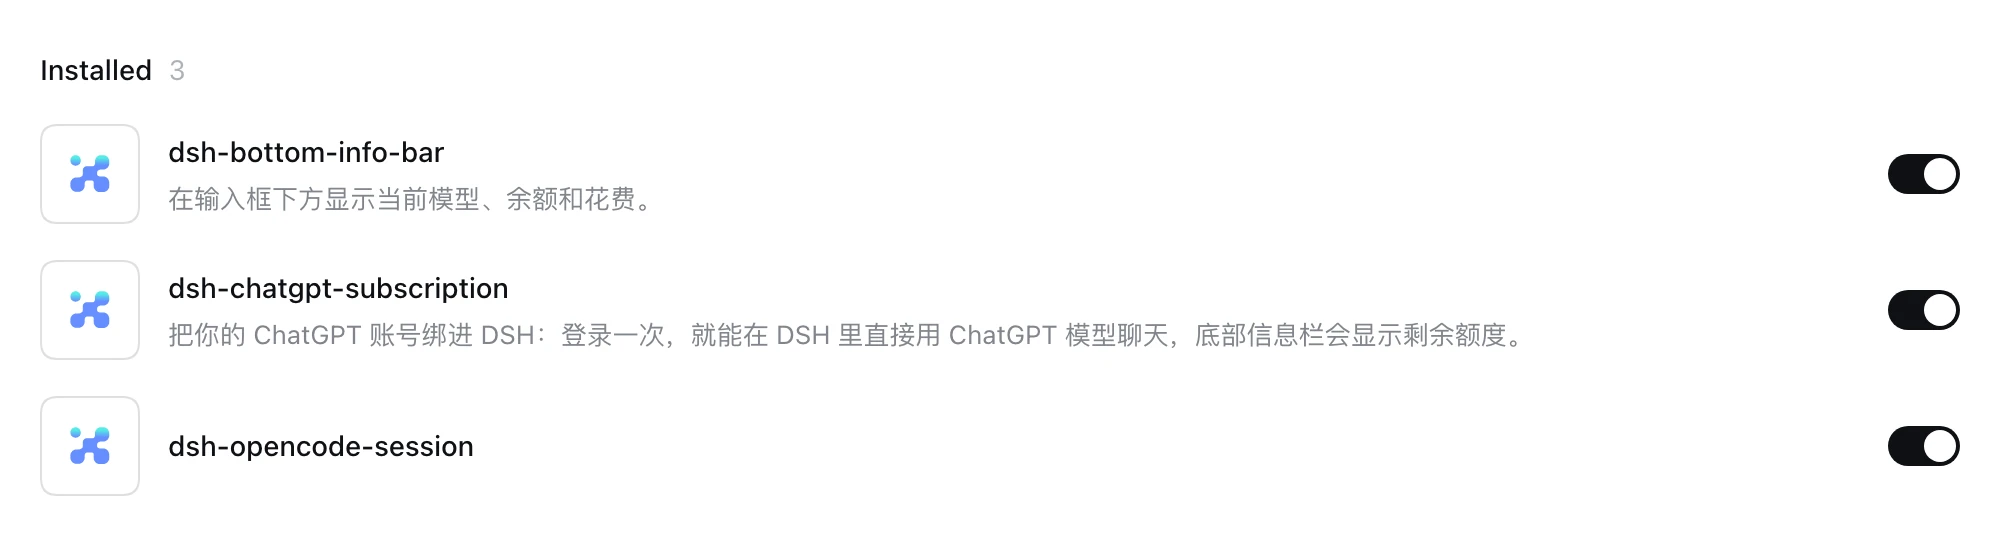
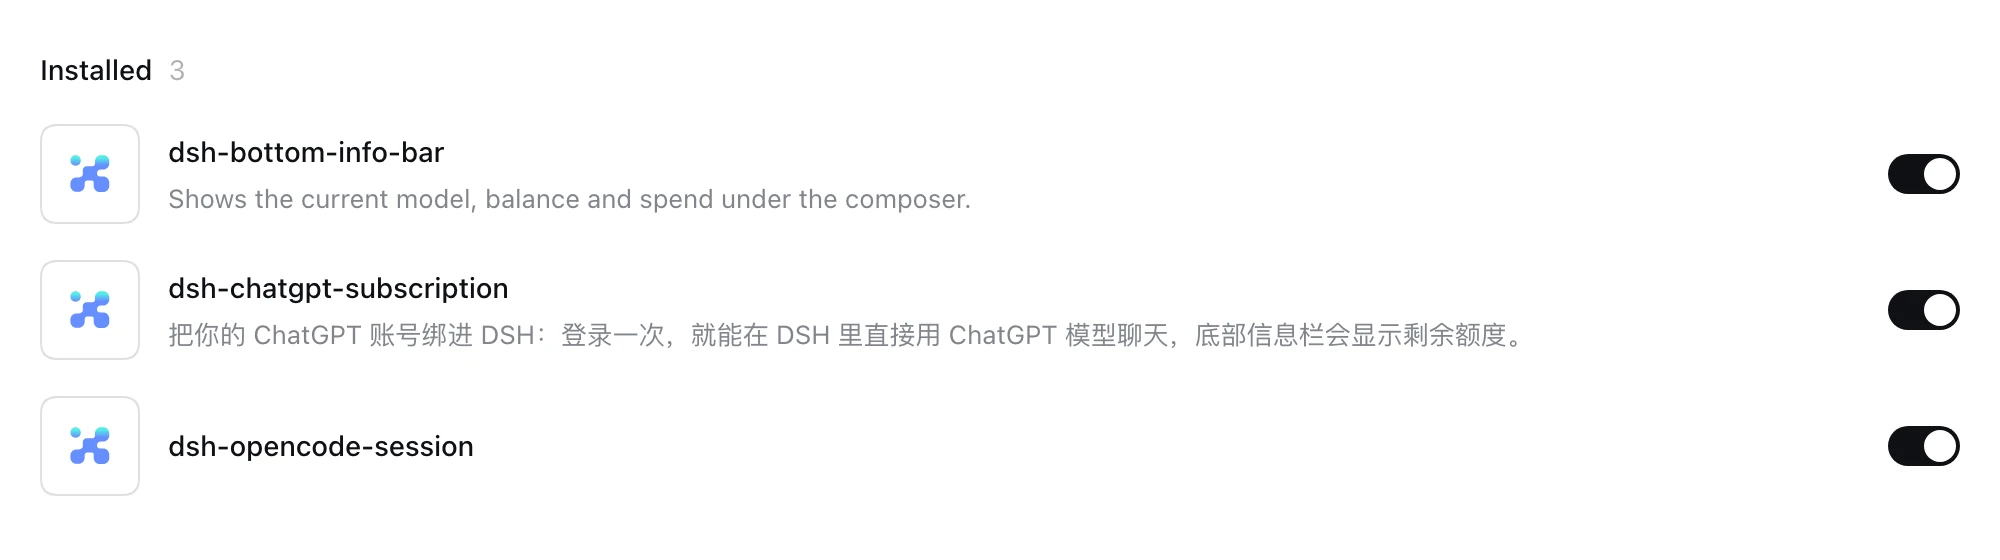
fix: let the plugin name and description follow the host language (#124)
* fix: let the plugin name and description follow the host language

The description shown under the plugin title and in the installed-plugins list
came straight from package.json, so it stayed Chinese no matter which language
DSH was running in.

DSH already supports localizing that metadata per package: it discovers
locale/en.json next to the manifest and merges every locale/*.json into the
title/description it hands to the client. This ships that dictionary pair, with
package.json keeping the English one-liner as the npm-facing fallback.

Three contracts have to hold or the lookup silently falls back to package.json:
locale/en.json must exist, exports must expose ./locale/*.json, and files must
ship it in the tarball. tests/test-localization.mjs now locks all three (and
fails when any one is removed).

* docs: refresh the two English screenshots that showed the Chinese description

The plugin page header and the installed-plugins row now render the English
description, so the README captures were stale. Both are re-shot from the
plugin page with the fix in place; the Chinese set is unchanged, since the
Chinese string is identical to before.

Changed region(s): [[0.062, 0.3339, 0.496, 0.3946]]

diff --git a/MEMORY.md b/MEMORY.md
@@ -18,6 +18,15 @@
 
 ## 2026-09-23
 
+### 插件描述不随语言切换：改用 DSH 的包级语言字典（fix）
+
+- 现象：宿主界面切英文后，插件页标题下与插件列表里的描述仍是中文。根因：那段文字来自 `plugin/package.json` 的 `description`，与插件自己的 `src/locales.js`（只管设置页/信息栏文案）无关。
+- DSH 的正确机制（0.1.7-alpha.1 实测）：包根 `locale/<lang>.json`，内容形如 `{"meta":{"title":"…","description":"…"}}`；`locale/en.json` 是**发现入口**（不存在就整个跳过），随后读取同目录全部 `*.json`；`readPluginMeta()` 生成 `{en: package.json 回退值, …各语言}`，客户端 `resolveText()` 按 `fallbackChain(active)` 取（内置语言 id 就是 `zh`/`en`，`<html lang>` 才是 zh-CN；zh 的链是 [zh, en]）。
+- **三个契约缺一个就静默失效**（DSH 把 `ERR_PACKAGE_PATH_NOT_EXPORTED` 当作「没有字典」，直接回退 package.json 描述、不报错）：① `locale/en.json` 必须存在；② `exports` 必须导出 `"./locale/*.json"`；③ `files` 必须含 `"locale/*.json"`（否则 npm 包里没有）。三条已写进 `tests/test-localization.mjs`，并做过反向验证（去掉任一条立即报错）。
+- **必须重启才生效**：改完 manifest 后，**已在运行的 DSH 进程解析不到新导出的子路径**（长跑进程内的解析结果是旧的）。验证办法：新建隔离 home（`DSH_HOME=/tmp/dsh-verify`，profile 用 `cp` + `node_modules` 软链），另起一个端口（3099）跑第二个实例，实测两种语言下列表行与插件页描述都正确；用完 kill 进程 + 删目录，全程不碰用户正在跑的 3080 实例与其语言偏好。
+- 语言偏好现状：用户已把 DSH 语言切成 `en`（`~/.dsh/profiles/web/cordis.patch.yml` 的 `- id: locale`）——别再假设它是 zh；临时改语言截图必须备份 + `trap` 还原 + sha256 核对。
+- 顺带：同 profile 里 `dsh-chatgpt-subscription` 等插件的描述仍只有中文（各自仓库的 package.json），要双语得在各自仓库加 `locale/*.json`。
+
 ### README 截图适配中英双语（纯 docs，不触发发版）
 
 - 约定（本次定型）：`assets/` 里**无语言后缀 = 英文界面**（`README.md` 用），**`.zh-CN.webp` = 中文界面**（`README.zh-CN.md` 用）。设置页三张 + 插件列表一张都已双语；`info-bar-full/compact.webp` 仍只有英文版。
